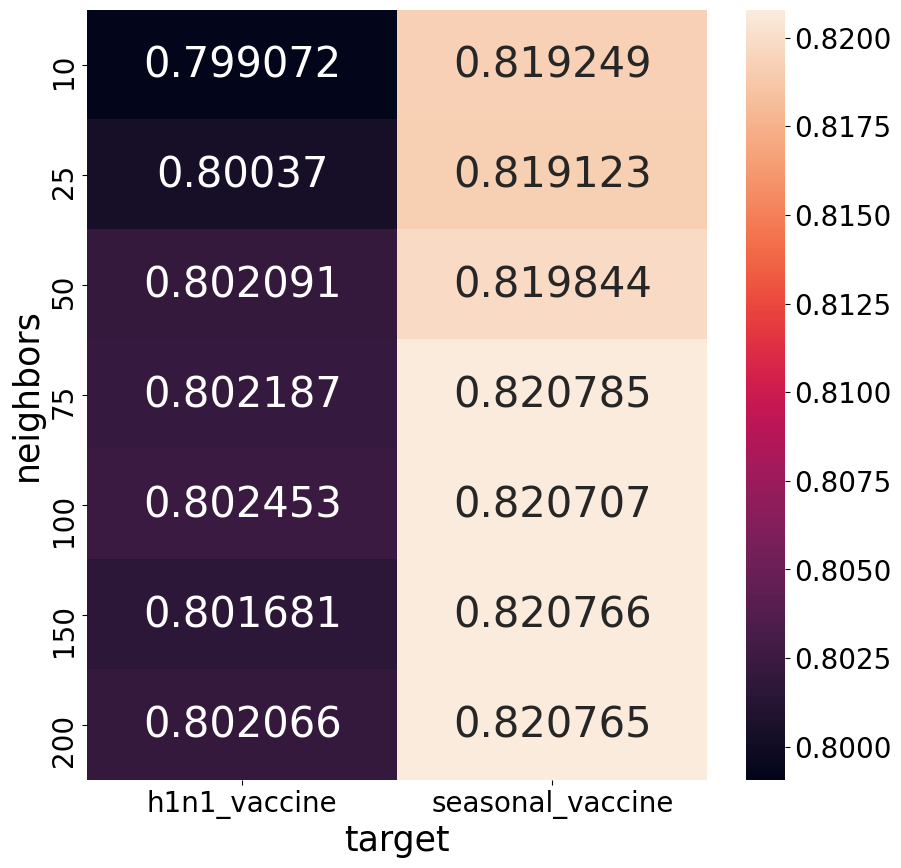
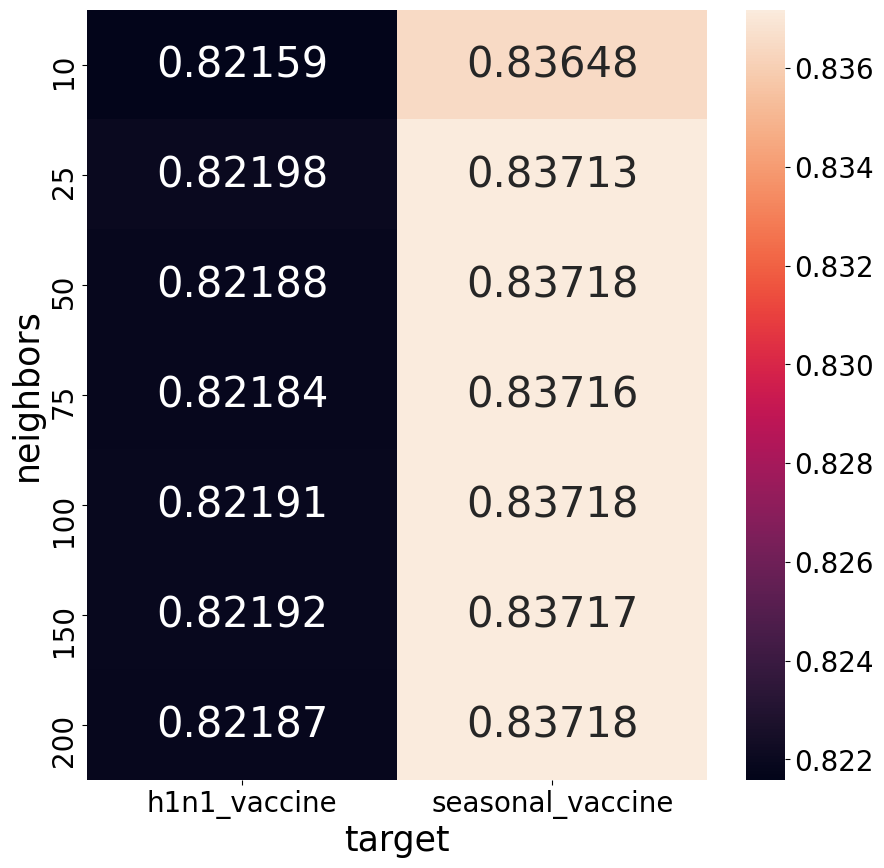
finding best classifier

diff --git a/preprocessing.py b/preprocessing.py
@@ -8,6 +8,7 @@ import numpy as np
 import pandas as pd
 from tqdm import tqdm
 import pickle
+import math
 
 # Plotting
 import matplotlib
@@ -24,6 +25,17 @@ from sklearn.pipeline import make_pipeline
 
 # Forecasting
 from sklearn.linear_model import LogisticRegression
+from sklearn.tree import DecisionTreeClassifier
+from sklearn.ensemble import RandomForestClassifier, GradientBoostingClassifier
+from sklearn.neighbors import KNeighborsClassifier
+from sklearn.discriminant_analysis import LinearDiscriminantAnalysis
+from sklearn.naive_bayes import GaussianNB
+from sklearn.neural_network import MLPClassifier
+from sklearn.svm import SVC
+from sklearn.model_selection import GridSearchCV, KFold, cross_val_score
+
+# Upsampling
+import imblearn
 
 # Self written
 import _func_plotting as self_plot
@@ -55,7 +67,8 @@ count-plot. Here we see that the h1n1 vaccine variable is relatively balanced, w
 is nicely balanced. We therefore will consider playing a bit with sampling methods for the h1n1 vaccine variable """
 
 target_columns = ['h1n1_vaccine', 'seasonal_vaccine']
-fig, axs = plt.subplots(ncols=2, figsize=(len(target_columns) * 10, 10))
+num_target_columns = len(target_columns)
+fig, axs = plt.subplots(ncols=2, figsize=(num_target_columns * 10, 10))
 axs = axs.ravel()
 for i, column in enumerate(target_columns):
     sns.countplot(total_train.loc[:, column], ax=axs[i])
@@ -92,7 +105,6 @@ for column in tqdm(feature_columns):
 with the target. From there we already have some sort of an idea in which direction to look"""
 
 NUM_ROWS_SHOWN = 15
-num_target_columns = len(target_columns)
 for bool_order, title in zip([True, False], ['Lowest Correlations', 'Highest Correlations']):
     fig, axs = plt.subplots(figsize=([ num_target_columns * 10, 10]), ncols=num_target_columns)
     axs = axs.ravel()
@@ -254,7 +266,7 @@ if not os.path.isfile(path_preprocessed_data_file):
     grouped_imputed = df_imputed.groupby(['neighbors', 'target']).mean()
     reshaped_table = pd.pivot_table(grouped_imputed, values='score', index='neighbors',columns='target')
     fig, axs = plt.subplots(figsize=(10, 10))
-    sns.heatmap(data=reshaped_table, annot=True, fmt='.4g')
+    sns.heatmap(data=reshaped_table, annot=True, fmt='.5g')
     path = rf'{GRAPH_PATH}/imputation.png'
     fig.savefig(path, bbox_inches='tight')
 
@@ -268,17 +280,10 @@ else:
 
 """After getting the data ready, it is now time to try out all kind of different models, we start by throwing
 all kind of models at the data with their standard parameter. We then take the model which performed the best
-initially to test out some hyper-parameter. Given the scoring of the data science problem"""
+initially to test out some hyper-parameter.
 
-from sklearn import model_selection
-from sklearn.linear_model import LogisticRegression
-from sklearn.tree import DecisionTreeClassifier
-from sklearn.ensemble import RandomForestClassifier, GradientBoostingClassifier
-from sklearn.neighbors import KNeighborsClassifier
-from sklearn.discriminant_analysis import LinearDiscriminantAnalysis
-from sklearn.naive_bayes import GaussianNB
-from sklearn.neural_network import MLPClassifier
-from sklearn.svm import SVC
+From the information we get from the final plot we see that the Gradient Boosting Classifier is the strongest classifier
+and therefore also the one we will continue with"""
 
 # prepare models
 models = []
@@ -298,8 +303,8 @@ for y_column in target_columns:
     y_data = total_train.loc[:, y_column]
     X_data = dict_processed_data[y_column]
     for name, model in tqdm(models):
-        kfold = model_selection.KFold(n_splits=10, random_state=28, shuffle=True)
-        cv_results = model_selection.cross_val_score(model, X_data, y_data, cv=kfold, scoring=scoring)
+        kfold = KFold(n_splits=10, random_state=28, shuffle=True)
+        cv_results = cross_val_score(model, X_data, y_data, cv=kfold, scoring=scoring)
         results.loc[name, y_column] = np.mean(cv_results)
 
 # Plot imputation performance
@@ -311,11 +316,65 @@ sns.heatmap(data=results.astype(float), annot=True, ax=axs, fmt='.4g')
 path = rf'{GRAPH_PATH}/model_performance.png'
 fig.savefig(path, bbox_inches='tight')
 
-# %% Hpyer-Parameter Tuning for Final Models
+# %% Feature Selection
 
-"""Now it is time to train hyper-parameterized models for """
+"""From the """
 
+# Feature Importance
+gbm_clf = GradientBoostingClassifier()
+dict_relevant_data = {}
+THRESHOLD_IMPORTANCE = 1 / 100
 
+fig, axs = plt.subplots(figsize=(20, 10), ncols=num_target_columns)
+axs = axs.ravel()
+for i, y_column in enumerate(target_columns):
 
+    y_data = total_train.loc[:, y_column]
+    X_data = dict_processed_data[y_column]
+
+    clf = gbm_clf.fit(X_data, y_data)
+    feature_importance = clf.feature_importances_
+    df_feature_importance = pd.DataFrame(np.reshape(feature_importance, (-1, 1)),
+                                         index=X_data.columns, columns=['columns'])
+    df_above_one_percent = df_feature_importance.query('columns >= @THRESHOLD_IMPORTANCE')
+    sorted_features = df_above_one_percent.sort_values(by='columns', ascending=False)
+    dict_relevant_data[y_column] = dict_processed_data[y_column].loc[:, list(sorted_features.index)]
+
+    sorted_features.plot.bar(ax=axs[i])
+path = rf'{GRAPH_PATH}/feature_importance.png'
+fig.savefig(path, bbox_inches='tight')
+
+# %% Hyper-Parameter Tuning
+
+"""Now we tune the hyper-parameter of the Gradient Boosting. Furthermore, we apply a SMOTE algorithm to up-sample
+the minority class. As we found out in the beginning, the h1n1 vaccine is quite imbalanced (~20% of majority class).
+We try out three different levels for the SMOTE algorithm, either the status quo, midway sampling or exactly the same
+amount.
+
+"""
+
+gb_grid_params = {
+    'gradientboostingclassifier__learning_rate': [1/pow(10, x) for x in range(1, 3)],
+    'gradientboostingclassifier__max_depth': np.linspace(3, 30, num=3, dtype=int),
+    'gradientboostingclassifier__min_samples_leaf': np.linspace(1, 30, num=3, dtype=int),
+    'gradientboostingclassifier__n_estimators': [1_000],
+}
+
+over_sampler = imblearn.over_sampling.SMOTE(random_state=28)
+gb_model = GradientBoostingClassifier(random_state=28)
+gb_pipeline = imblearn.pipeline.make_pipeline(over_sampler, gb_model)
+
+for y_column in target_columns:
+
+    # Get the SMOTE params
+    num_target_values = total_train.loc[:, y_column].value_counts()
+    current_balance = math.ceil(min(num_target_values) / max(num_target_values) * 100) / 100
+    smote_grid_params = {'smote__sampling_strategy': np.linspace(current_balance, 1, num=3)}
+
+    # Initialize the GridSearch
+    grid_params = {**gb_grid_params, **smote_grid_params}
+    gb_gs_clf = GridSearchCV(gb_pipeline, grid_params, n_jobs=-1, scoring='roc_auc')
+
+    # Train the model
 
 
